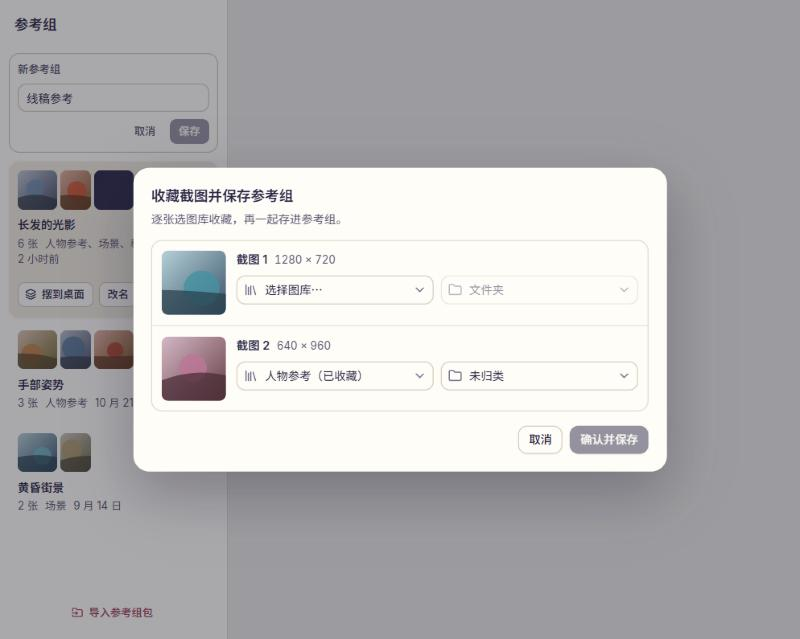
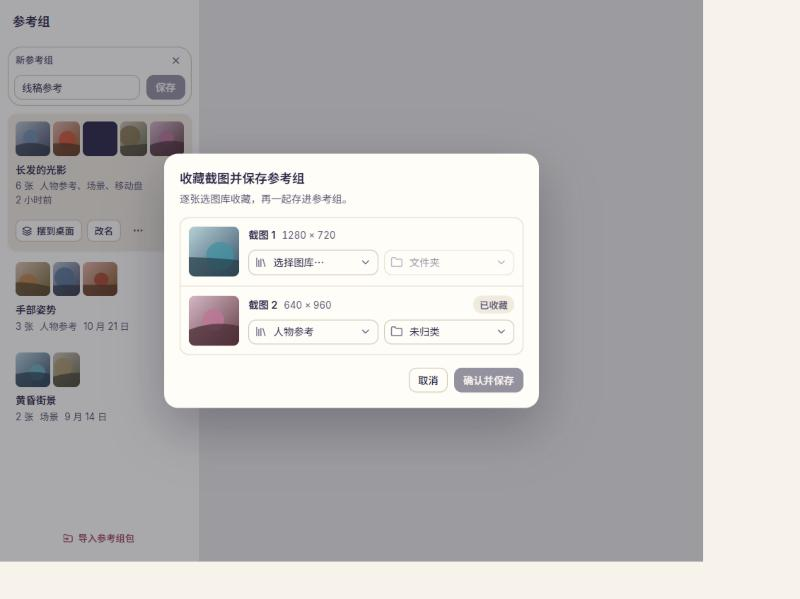
refactor(ui): reference-group save flow follows the design system more closely
- 起名与改名合成 GroupNameForm：字段名与关闭按钮一行，输入框与“保存”同高 32 并排（TextField“配按钮”）；
  新参考组外框用同心圆角 r-xl。改名时卡片的操作行先收起；改名的“保存”用普通按钮，每屏只留一个主操作。
- 收藏截图对话框回到保存对话框的 480 宽，列表同 .k-list；“已收藏”改成名称后的胶囊，选项里不再重复。
- 保存、导入、导出等结果改用轻提示回报；没有 ToastProvider 时仍写在面板里。

diff --git a/src/desktop/ReferenceGroupsPanel.tsx b/src/desktop/ReferenceGroupsPanel.tsx
@@ -4,6 +4,8 @@ import { AlertDialog } from "@base-ui/react/alert-dialog";
 import { BookmarkPlus, FolderInput, Layers, ListTree, MoreHorizontal, PackageOpen, Trash2 } from "lucide-react";
 import { Menu, MenuItem, MenuPopup, MenuSeparator } from "../ui/Menu";
 import { CaptureGroupSaveDialog, type CaptureSave } from "./CaptureGroupSaveDialog";
+import { GroupNameForm } from "./GroupNameForm";
+import { useToast } from "../ui/Toast";
 import { ago } from "./relativeTime";
 import type { GroupSummary } from "../bindings/GroupSummary";
 import type { MemberStatus } from "../bindings/MemberStatus";
@@ -53,6 +55,13 @@ export function ReferenceGroupsPanel({}: { libraryId?: string | null }) {
   const [name, setName] = useState("");
   const [error, setError] = useState<string | null>(null);
   const [notice, setNotice] = useState<string | null>(null);
+  const toast = useToast();
+  /** 结果用轻提示回报；没有 ToastProvider 时（单独渲染面板）写在面板里。 */
+  const tell = (text: string | null) => {
+    if (!text) return;
+    if (toast) toast.show({ title: text, tone: "success" });
+    else setNotice(text);
+  };
   const [expanded, setExpanded] = useState<ReferenceGroupView | null>(null);
   const [renaming, setRenaming] = useState<{ id: string; name: string } | null>(null);
   const [deleting, setDeleting] = useState<string | null>(null);
@@ -98,7 +107,7 @@ export function ReferenceGroupsPanel({}: { libraryId?: string | null }) {
     setNotice(null);
     try {
       const value = await action();
-      if (done) setNotice(done(value) ?? null);
+      if (done) tell(done(value));
     } catch (e) {
       setError(String(e));
     }
@@ -130,11 +139,11 @@ export function ReferenceGroupsPanel({}: { libraryId?: string | null }) {
       else await saveReferenceGroup(target.name);
       setName("");
       setNaming(false);
-      setNotice("已把桌面钉图存为参考组");
+      tell("已把桌面钉图存为参考组");
     } else {
       if (choices.length) await savePinsToGroup(target.groupId, choices);
       else await savePinsToGroup(target.groupId);
-      setNotice("已把桌面钉图存进这个参考组");
+      tell("已把桌面钉图存进这个参考组");
     }
     setCaptureSave(null);
   };
@@ -169,24 +178,15 @@ export function ReferenceGroupsPanel({}: { libraryId?: string | null }) {
     <section className="reference-groups" aria-label="参考组">
       <header className="reference-groups-bar">
         <h2>参考组</h2>
-        {naming ? <form className="group-name-form is-new" onSubmit={(e) => { e.preventDefault(); if (name.trim()) void run(() => beginSave({ name })); }}
-          onKeyDown={(e) => { if (e.key === "Escape" && !saving) { e.preventDefault(); setNaming(false); setName(""); } }}>
-          <label className="k-field">
-            <span className="k-field-label">新参考组</span>
-            <input className="k-input" aria-label="新参考组名称" placeholder="给这组钉图起个名字" autoFocus disabled={saving}
-              value={name} onChange={(e) => setName(e.target.value)} />
-          </label>
-          <span className="group-name-acts">
-            <button type="button" className="k-btn is-sm is-quiet" disabled={saving} onClick={() => { setNaming(false); setName(""); }}>取消</button>
-            <button type="submit" className="k-btn is-sm is-primary" disabled={!name.trim() || !!captureSave || saving}>保存</button>
-          </span>
-        </form> : <button type="button" className="k-btn is-primary group-save" disabled={!!captureSave || saving} onClick={() => setNaming(true)}>
+        {naming ? <GroupNameForm className="is-new" title="新参考组" label="新参考组名称" placeholder="给这组钉图起个名字"
+          value={name} onChange={setName} busy={saving} blocked={!!captureSave}
+          onCancel={() => { setNaming(false); setName(""); }} onSubmit={() => void run(() => beginSave({ name }))} /> : <button type="button" className="k-btn is-primary group-save" disabled={!!captureSave || saving} onClick={() => setNaming(true)}>
           <BookmarkPlus size={15} aria-hidden="true" />存下桌面钉图
         </button>}
       </header>
       {importing && <SaveDestinationDialog title="导入参考组包" confirmLabel="选择参考组包并导入" onClose={() => setImporting(false)} onConfirm={async (destination) => {
         const group = await importReferenceGroupPackage(destination.libraryId, destination);
-        if (group) setNotice(`已导入参考组「${group.name}」，原图保存到所选图库和文件夹`);
+        if (group) tell(`已导入参考组「${group.name}」，原图保存到所选图库和文件夹`);
       }} />}
       {error && <p className="group-note is-error" role="alert">{error}</p>}
       {notice && <p className="group-note" role="status">{notice}</p>}
@@ -214,19 +214,11 @@ export function ReferenceGroupsPanel({}: { libraryId?: string | null }) {
                   : <span className="reference-group-meta k-parts"><span>{g.memberCount} 张</span><span>{libraries(g.libraryIds)}</span><span>{ago(g.updatedAt)}</span></span>}
               </button>
               {renaming?.id === g.id && (
-                <form className="group-name-form" onSubmit={(e) => {
-                  e.preventDefault();
-                  if (renaming.name.trim()) void run(() => renameReferenceGroup(g.id, renaming.name), () => (setRenaming(null), null));
-                }} onKeyDown={(e) => { if (e.key === "Escape") { e.preventDefault(); setRenaming(null); } }}>
-                  <input className="k-input" aria-label="参考组名称" autoFocus value={renaming.name}
-                    onChange={(e) => setRenaming({ id: g.id, name: e.target.value })} />
-                  <span className="group-name-acts">
-                    <button type="button" className="k-btn is-sm is-quiet" onClick={() => setRenaming(null)}>取消</button>
-                    <button type="submit" className="k-btn is-sm is-primary" disabled={!renaming.name.trim()}>保存名称</button>
-                  </span>
-                </form>
+                <GroupNameForm title="改名" label="参考组名称" value={renaming.name} primary={false}
+                  onChange={(value) => setRenaming({ id: g.id, name: value })} onCancel={() => setRenaming(null)}
+                  onSubmit={() => void run(() => renameReferenceGroup(g.id, renaming.name), () => (setRenaming(null), null))} />
               )}
-              {on && (g.problem ? (
+              {on && renaming?.id !== g.id && (g.problem ? (
                 <span className="reference-group-actions">
                   <button type="button" className="k-btn is-sm" onClick={() => setDeleting(g.id)}><Trash2 size={13} aria-hidden="true" />删除</button>
                 </span>

diff --git a/src/styles/desktop.css b/src/styles/desktop.css
@@ -33,12 +33,13 @@
 
 /* 参考组卡片 */
 .group-save { width: 100%; height: 36px; border-radius: 11px; }
-/* 起名与改名：TextField 加一行右对齐的按钮。新参考组的表单替换“存下桌面钉图”按钮，用 1 px line 圈出，
-   不铺底色，免得和选中的参考组卡片混在一起。 */
-.group-name-form { display: flex; flex-direction: column; gap: 8px; }
-.group-name-form.is-new { padding: 10px; border-radius: var(--r-m); box-shadow: inset 0 0 0 1px var(--line-2); }
-.group-name-form .k-input { flex: none; width: 100%; }
-.group-name-acts { display: flex; justify-content: flex-end; gap: 6px; }
+/* 起名与改名（GroupNameForm）：字段名与关闭按钮一行，输入框与“保存”同高 32 并排、间距 8。
+   新参考组的表单替换“存下桌面钉图”按钮，用 1 px line-2 圈出，不铺底色，免得和选中的参考组卡片混在一起；
+   同心圆角：输入框 r（10）+ 内边距 8 = 外框 r-xl（18）。 */
+.group-name-form { display: flex; flex-direction: column; gap: 6px; min-width: 0; }
+.group-name-form.is-new { padding: 6px 8px 8px; border-radius: var(--r-xl); box-shadow: inset 0 0 0 1px var(--line-2); }
+.group-name-head { display: flex; align-items: center; justify-content: space-between; gap: 8px; min-height: 24px; padding-left: 2px; }
+.group-name-form .k-field-row > .k-btn { flex: none; }
 .reference-groups-list { display: flex; flex-direction: column; gap: 4px; margin: 0; padding: 0; list-style: none; }
 .reference-group { display: flex; flex-direction: column; gap: 8px; min-width: 0; padding: 4px; border-radius: 12px; transition: background var(--t-fast); }
 .reference-group.is-on { padding-bottom: 10px; background: var(--surface-2); box-shadow: var(--shadow-raise); }
@@ -56,22 +57,23 @@
 .reference-group-meta, .reference-group-problem { color: var(--ink-2); font-size: 12px; line-height: 18px; overflow-wrap: anywhere; }
 .reference-group-problem { color: var(--warn); }
 .reference-group-actions { display: flex; flex-wrap: wrap; align-items: center; gap: 6px; padding: 0 6px; }
-.reference-group .group-name-form { padding: 0 6px; }
+.reference-group .group-name-form { padding: 0 6px 4px; }
 .reference-group-members { display: flex; flex-direction: column; gap: 6px; margin: 0; padding: 0 6px 0 22px; font-size: 12px; }
 .reference-group-members li { display: flex; flex-wrap: wrap; align-items: center; gap: 2px 8px; min-width: 0; }
 .reference-group-members span { min-width: 0; overflow-wrap: anywhere; }
 .reference-group-member-unavailable { color: var(--warn); }
 .reference-groups-foot { display: flex; justify-content: center; margin-top: auto; padding-top: 8px; }
-/* 收藏截图并保存参考组：每张截图一行，缩略图在左，名称与尺寸在上，图库与文件夹两个 Select 并排。 */
-.k-dialog.k-save-dialog.capture-group-save { width: min(600px, calc(100vw - 48px)); }
+/* 收藏截图并保存参考组：沿用保存对话框（.k-save-dialog，宽 480）。截图列表同 .k-list：surface 底、1 px line 圈出、行间 1 px line。
+   每张截图一行：缩略图在左，名称、尺寸与“已收藏”在上，图库与文件夹两个 Select 并排。 */
 .capture-save-list { display: flex; flex-direction: column; max-height: min(360px, calc(100vh - 260px)); overflow-y: auto; margin: 0; padding: 0; list-style: none;
-  border-radius: var(--r-m); box-shadow: inset 0 0 0 1px var(--line); }
+  border-radius: var(--r-m); background: var(--surface); box-shadow: inset 0 0 0 1px var(--line); }
 .capture-save-row { display: flex; gap: 12px; align-items: flex-start; min-width: 0; padding: 12px; }
 .capture-save-row + .capture-save-row { border-top: 1px solid var(--line); }
-.capture-save-thumb { width: 72px; height: 72px; flex: none; border-radius: var(--r-s); object-fit: cover; background: var(--card); transition: opacity var(--t-fast); }
+.capture-save-thumb { width: 64px; height: 64px; flex: none; border-radius: var(--r-s); object-fit: cover; background: var(--card); transition: opacity var(--t-fast); }
 .capture-save-row.is-skipped .capture-save-thumb { opacity: 0.5; }
 .capture-save-main { flex: 1; min-width: 0; display: flex; flex-direction: column; gap: 8px; }
-.capture-save-head { display: flex; align-items: baseline; gap: 8px; margin: 0; min-width: 0; }
+.capture-save-head { display: flex; align-items: center; gap: 8px; min-height: 22px; margin: 0; min-width: 0; }
+.capture-save-head .k-pill { margin-left: auto; }
 .capture-save-head strong { font-weight: 600; }
 .capture-save-head span { color: var(--ink-2); font-size: 12px; font-variant-numeric: tabular-nums; }
 .capture-save-fields { display: grid; grid-template-columns: repeat(2, minmax(0, 1fr)); gap: 8px; }

diff --git a/src/desktop/CaptureGroupSaveDialog.tsx b/src/desktop/CaptureGroupSaveDialog.tsx
@@ -11,7 +11,7 @@ export type CaptureSave<T> = { target: T; entries: CaptureEntry[]; choices: Reco
 
 /**
  * 收藏截图并保存参考组（#66）：桌面上有截图钉图时，存参考组前逐张选收藏的图库和文件夹。
- * 每张截图一行：缩略图在左，图库与文件夹两个 Select 并排；位置用不了时在行内写原因。
+ * 每张截图一行：缩略图在左，图库与文件夹两个 Select 并排；已收藏的截图在名称后标“已收藏”；位置用不了时在行内写原因。
  */
 export function CaptureGroupSaveDialog<T>({ value, onChange, libraries, saving, onClose, onConfirm }: {
   value: CaptureSave<T>; onChange: (value: CaptureSave<T>) => void; libraries: LibraryRegistration[];
@@ -30,12 +30,16 @@ export function CaptureGroupSaveDialog<T>({ value, onChange, libraries, saving, 
             const folder = value.folders[entry.id] ?? null;
             const chosen = !!library && library !== "skip";
             const destination = { libraryId: library, folderId: folder };
+            const collected = [...new Set(entry.collected.map((c) => libraries.find((l) => l.library.id === c.libraryId)?.library.name ?? "未登记的图库"))];
             const lost = chosen && saveContext.ready && !destinationAvailable(destination, saveContext.providers);
             return (
               <li key={entry.id} className={`capture-save-row${library === "skip" ? " is-skipped" : ""}`}>
                 <img className="capture-save-thumb" src={captureUrl(entry.id)} alt={`截图 ${i + 1}`} draggable={false} />
                 <div className="capture-save-main">
-                  <p className="capture-save-head"><strong>截图 {i + 1}</strong><span>{entry.width} × {entry.height}</span></p>
+                  <p className="capture-save-head">
+                    <strong>截图 {i + 1}</strong><span>{entry.width} × {entry.height}</span>
+                    {collected.length > 0 && <span className="k-pill" title={`已收藏到 ${collected.join("、")}`}>已收藏</span>}
+                  </p>
                   <div className="capture-save-fields">
                     <Select label={`截图 ${i + 1} 的图库`} icon={<Library size={16} aria-hidden="true" />} disabled={saving} value={library}
                       onChange={(next) => onChange({ ...value, choices: { ...value.choices, [entry.id]: next }, folders: { ...value.folders, [entry.id]: null } })}
@@ -43,7 +47,7 @@ export function CaptureGroupSaveDialog<T>({ value, onChange, libraries, saving, 
                         { value: "", label: "选择图库…" },
                         ...libraries.map((option) => ({
                           value: option.library.id, disabled: !!option.unavailable,
-                          label: `${option.library.name}${option.unavailable ? "（未连接）" : entry.collected.some((c) => c.libraryId === option.library.id) ? "（已收藏）" : ""}`,
+                          label: `${option.library.name}${option.unavailable ? "（未连接）" : ""}`,
                         })),
                         { value: "skip", label: "不加入参考组" },
                       ]} />

diff --git a/src/desktop/GroupNameForm.tsx b/src/desktop/GroupNameForm.tsx
@@ -1,0 +1,30 @@
+import { X } from "lucide-react";
+
+/**
+ * 起名与改名（设计系统 TextField“配按钮”）：上方一行字段名与关闭按钮，下面输入框与“保存”并排，
+ * 同高 32、间距 8。Enter 保存，Esc 或关闭按钮取消。
+ */
+export function GroupNameForm({ title, label, placeholder, value, onChange, onSubmit, onCancel, busy = false, blocked = false, primary = true, className = "" }: {
+  title: string; label: string; placeholder?: string; value: string; onChange: (value: string) => void;
+  onSubmit: () => void; onCancel: () => void;
+  /** 正在保存：输入框与按钮都不能用。 */
+  busy?: boolean;
+  /** 暂时不能保存（另一次保存还没结束）。 */
+  blocked?: boolean;
+  /** “保存”用 ink 实底：只给侧栏里本屏的主操作（起名），卡片里的改名用普通按钮。 */
+  primary?: boolean;
+  className?: string;
+}) {
+  return <form className={`group-name-form ${className}`} onSubmit={(e) => { e.preventDefault(); if (value.trim() && !busy && !blocked) onSubmit(); }}
+    onKeyDown={(e) => { if (e.key === "Escape" && !busy) { e.preventDefault(); e.stopPropagation(); onCancel(); } }}>
+    <div className="group-name-head">
+      <span className="k-field-label">{title}</span>
+      <button type="button" className="k-icon-btn is-sm" aria-label="取消" title="取消 Esc" disabled={busy} onClick={onCancel}><X size={14} aria-hidden="true" /></button>
+    </div>
+    <div className="k-field-row">
+      <input className="k-input" aria-label={label} placeholder={placeholder} autoFocus disabled={busy}
+        value={value} onChange={(e) => onChange(e.target.value)} />
+      <button type="submit" className={`k-btn${primary ? " is-primary" : ""}`} disabled={!value.trim() || busy || blocked}>保存</button>
+    </div>
+  </form>;
+}

diff --git a/src/desktop/ReferenceGroupsPanel.test.tsx b/src/desktop/ReferenceGroupsPanel.test.tsx
@@ -142,6 +142,17 @@ describe("参考组面板", () => {
     expect(screen.getByRole("status").textContent).toBe("已把桌面钉图存为参考组");
   });
 
+  it("起名时按 Esc 或关闭按钮取消，回到“存下桌面钉图”", async () => {
+    await show();
+    fireEvent.click(screen.getByRole("button", { name: "存下桌面钉图" }));
+    fireEvent.keyDown(screen.getByLabelText("新参考组名称"), { key: "Escape" });
+    expect(screen.queryByLabelText("新参考组名称")).toBeNull();
+    fireEvent.click(screen.getByRole("button", { name: "存下桌面钉图" }));
+    fireEvent.click(screen.getByRole("button", { name: "取消" }));
+    expect(screen.queryByLabelText("新参考组名称")).toBeNull();
+    expect(ipc.save).not.toHaveBeenCalled();
+  });
+
   it("保存前逐张选择截图的收藏资料库，再把选择交给保存入口", async () => {
     ipc.captures.mockResolvedValueOnce([{ id: "shot-1", width: 100, height: 80, collected: [] }]);
     await show();
@@ -208,7 +219,7 @@ describe("参考组面板", () => {
     fireEvent.click(screen.getByRole("button", { name: "改名" }));
     fireEvent.change(screen.getByLabelText("参考组名称"), { target: { value: "发型" } });
     await act(async () => {
-      fireEvent.click(screen.getByRole("button", { name: "保存名称" }));
+      fireEvent.click(screen.getByRole("button", { name: "保存" }));
     });
     expect(ipc.rename).toHaveBeenCalledWith("g1", "发型");
   });
